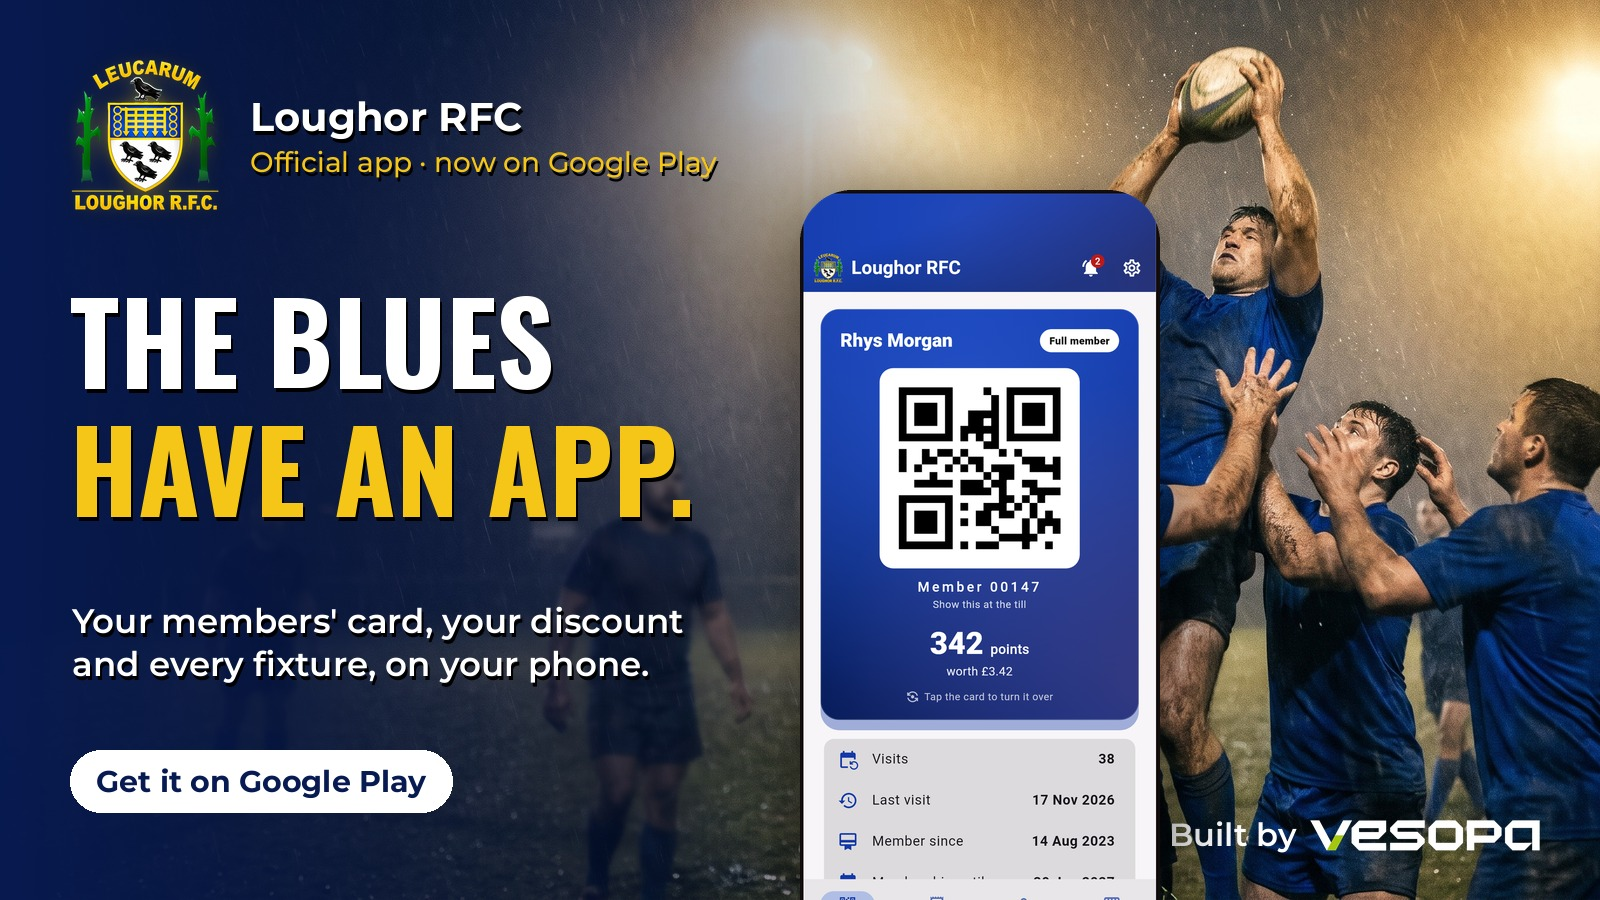
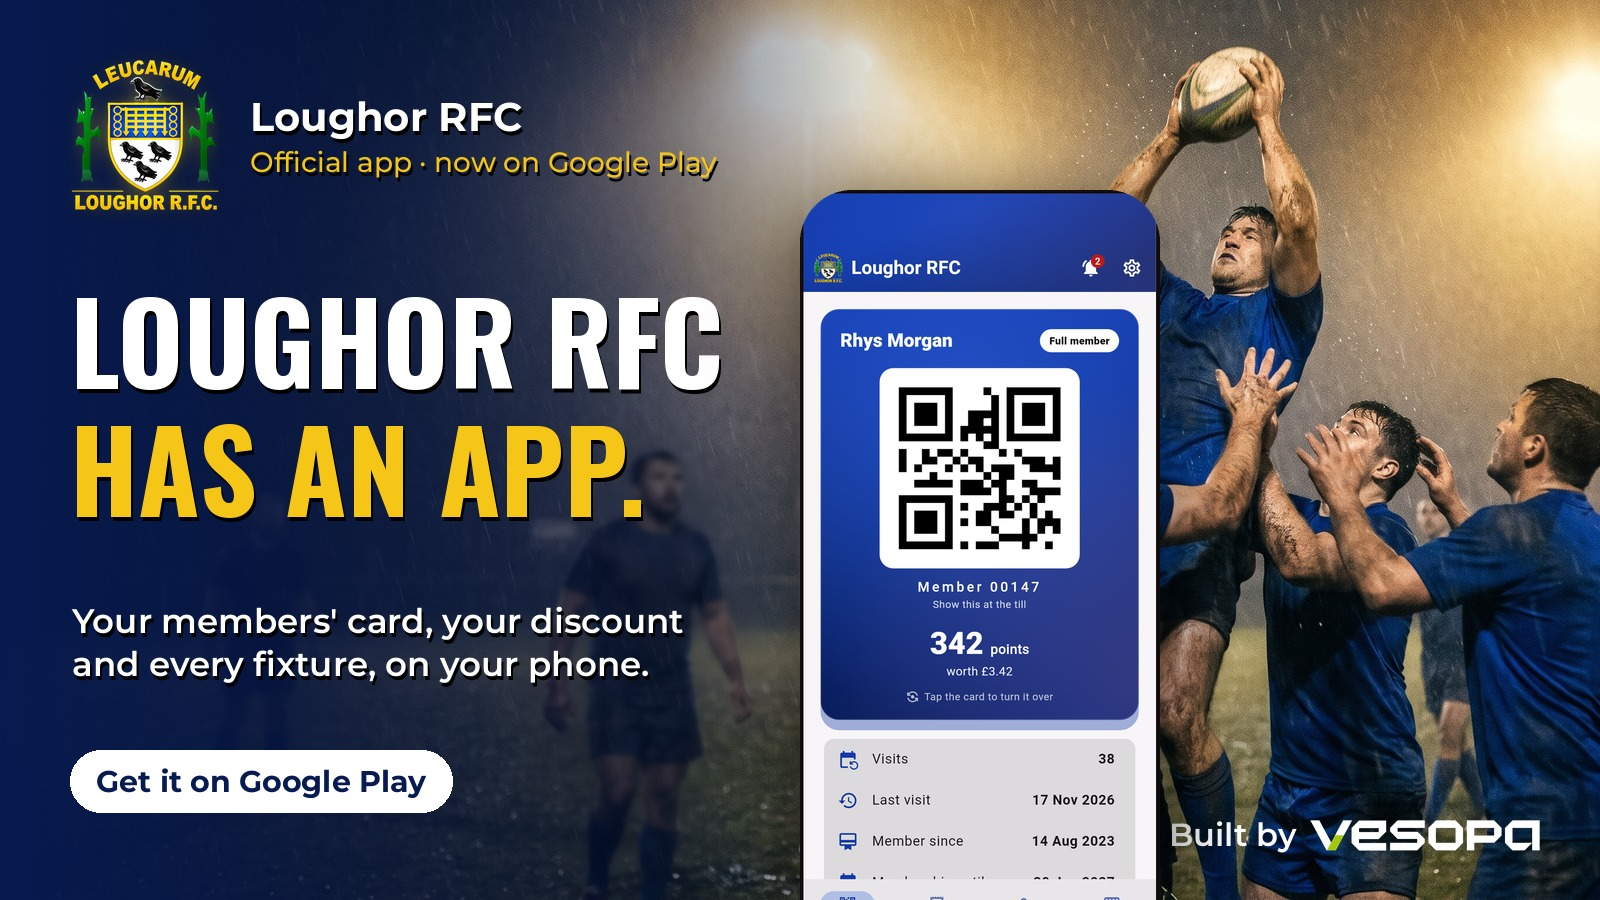
Loughor RFC social posts: no "Blues" on the Threads and X pictures or the X caption
Claude-Session: https://claude.ai/code/session_01AG18gf9KpSDgKYUryD7PUG

Changed region(s): [[0.0312, 0.3111, 0.4688, 0.4356], [0.125, 0.4667, 0.4375, 0.5911]]

diff --git a/documents/social/loughor-rfc-app/make_posts.py b/documents/social/loughor-rfc-app/make_posts.py
@@ -184,7 +184,7 @@ def threads():
     c, pad = crest(120)
     im.alpha_composite(c, (60 - pad, 56 - pad))
     text(d, (200, 82), "Loughor RFC", font(MONT_B, 38))
-    text(d, (200, 130), "The Blues · Est. 1882", font(MONT, 26), fill=(255, 255, 255, 210))
+    text(d, (200, 130), "Members' Club · Est. 1882", font(MONT, 26), fill=(255, 255, 255, 210))
     lines(d, (60, 220), ["NEVER MISS", "A KICK-OFF."], font(OSWALD, 120), 135, {1: GOLD})
     text(d, (62, 520), "Fixtures, match-day news and offers,\nstraight to members' phones.", font(MONT_SB, 32), spacing=10)
     p = phone("2-news.png", 430)
@@ -230,7 +230,7 @@ def x_post():
     im.alpha_composite(c, (70 - pad, 60 - pad))
     text(d, (250, 92), "Loughor RFC", font(MONT_B, 40))
     text(d, (250, 144), "Official app · now on Google Play", font(MONT, 28), fill=GOLD)
-    lines(d, (70, 255), ["THE BLUES", "HAVE AN APP."], font(OSWALD, 112), 128, {1: GOLD})
+    lines(d, (70, 255), ["LOUGHOR RFC", "HAS AN APP."], font(OSWALD, 112), 128, {1: GOLD})
     text(d, (72, 600), "Your members' card, your discount\nand every fixture, on your phone.", font(MONT_SB, 34), spacing=10)
     pill(d, (70, 750), "Get it on Google Play", font(MONT_B, 30), bg=WHITE, fg=DEEP)
     logo(im, (W - 60, H - 80), 230, anchor="r")

diff --git a/documents/social/loughor-rfc-app/captions.md b/documents/social/loughor-rfc-app/captions.md
@@ -67,7 +67,7 @@ Google Play: https://play.google.com/store/apps/details?id=com.vesopaepos.lougho
 
 ## X (`x-1600x900.jpg`)
 
-The Blues have an app 🏉💙
+Loughor RFC has an app 🏉💙
 
 Loughor RFC's members' card, discount and every fixture, on your phone.
 Built by Vesopa Software.
